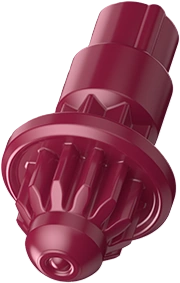
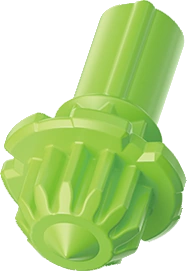
Update Translation

diff --git a/src/data/goShootData.ts b/src/data/goShootData.ts
@@ -221,7 +221,7 @@ export const bitData: Record<string, { weight?: string; burstHeight?: number; bu
   "HN": { weight: "2+", burstTotal: 133, description: "提高因傾斜的反擊力。軸端尖鋭度亦減低。" },
   "GN": { weight: "2=", burstTotal: 120, description: "同時容易穩守對戰盤中央及X Dash。尖端亦較圓滑。" },
   "MN": { weight: "3-", burstTotal: 124, description: "以重量及減低的摩擦提高安定性。" },
-  "UN": { weight: "2=", burstTotal: 102, description: "降低陀螺重心，以支援在低位置的反擊。" },
+  "UN": { weight: "2=", burstTotal: 102, description: "高度下降20的〔N〕Bit，降低陀螺重心，以支援在低位置的反擊。", englishName: "UnderNeedle" },
   "LO": { weight: "2=", burstTotal: 112, description: "低重心化令持久性能向上。" },
   "GP": { weight: "2+", burstTotal: 124, description: "實現巨大的動態變化。" },
   "GR": { weight: "2=", burstTotal: 123, description: "提升勾住X Line的容易度。" },

diff --git a/src/data/i18n.ts b/src/data/i18n.ts
@@ -337,7 +337,7 @@ export const bitFullNames: Record<string, string> = {
   "LO": "LowOrb",
   "K": "Kick",
   "L": "Level",
-  "UN": "Unite",
+  "UN": "UnderNeedle",
   "B": "Ball",
   "W": "Wedge",
   "E": "Elevate",

diff --git a/src/data/partImages.ts b/src/data/partImages.ts
@@ -178,7 +178,7 @@ const BIT_CODE_TO_WIKI: Record<string, string> = {
   "LO": "LowOrb",
   "K": "Kick",
   "L": "Level",
-  "UN": "Unite",
+  "UN": "UnderNeedle",
   "B": "Ball",
   "W": "Wedge",
   "E": "Elevate",